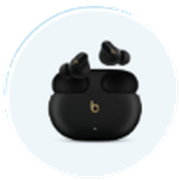
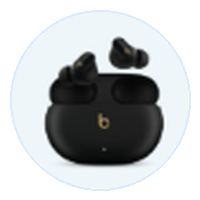
Align category circles: perfectly center product graphics, remove bounding box tints, lock label baselines

Changed region(s): [[0.1944, 0.1667, 0.8333, 0.8611], [0.0, 0.0278, 0.7222, 0.5556], [0.4722, 0.5556, 0.5556, 0.6667]]

diff --git a/css/style.css b/css/style.css
@@ -2803,9 +2803,11 @@ body.light-mode .tech-featured { border-color: var(--border-subtle); }
         .d2c-trending-grid {
             display: grid;
             grid-template-columns: repeat(8, 1fr);
-            gap: 20px;
+            gap: 16px;
             margin-top: 40px;
             margin-bottom: 75px;
+            align-items: flex-start;
+            justify-items: center;
         }
         .d2c-trending-item {
             display: flex;
@@ -2813,14 +2815,16 @@ body.light-mode .tech-featured { border-color: var(--border-subtle); }
             align-items: center;
             text-align: center;
             cursor: pointer;
+            width: 100%;
+            max-width: 120px;
             transition: transform 0.3s ease;
         }
         .d2c-trending-item:hover {
             transform: translateY(-8px);
         }
         .d2c-trending-circle {
-            width: 104px;
-            height: 104px;
+            width: 100px;
+            height: 100px;
             border-radius: 50%;
             background: #ffffff;
             box-shadow: 0 4px 16px rgba(0, 0, 0, 0.06);
@@ -2851,11 +2855,16 @@ body.light-mode .tech-featured { border-color: var(--border-subtle); }
         }
         .d2c-trending-label {
             font-family: var(--font-heading);
-            font-size: 0.88rem;
+            font-size: 0.85rem;
             font-weight: 700;
             color: var(--text-main);
-            margin-top: 12px;
-            line-height: 1.3;
+            margin-top: 14px;
+            line-height: 1.25;
+            text-align: center;
+            min-height: 34px;
+            display: flex;
+            align-items: flex-start;
+            justify-content: center;
             transition: color 0.2s ease;
         }
         .d2c-trending-item:hover .d2c-trending-label {
